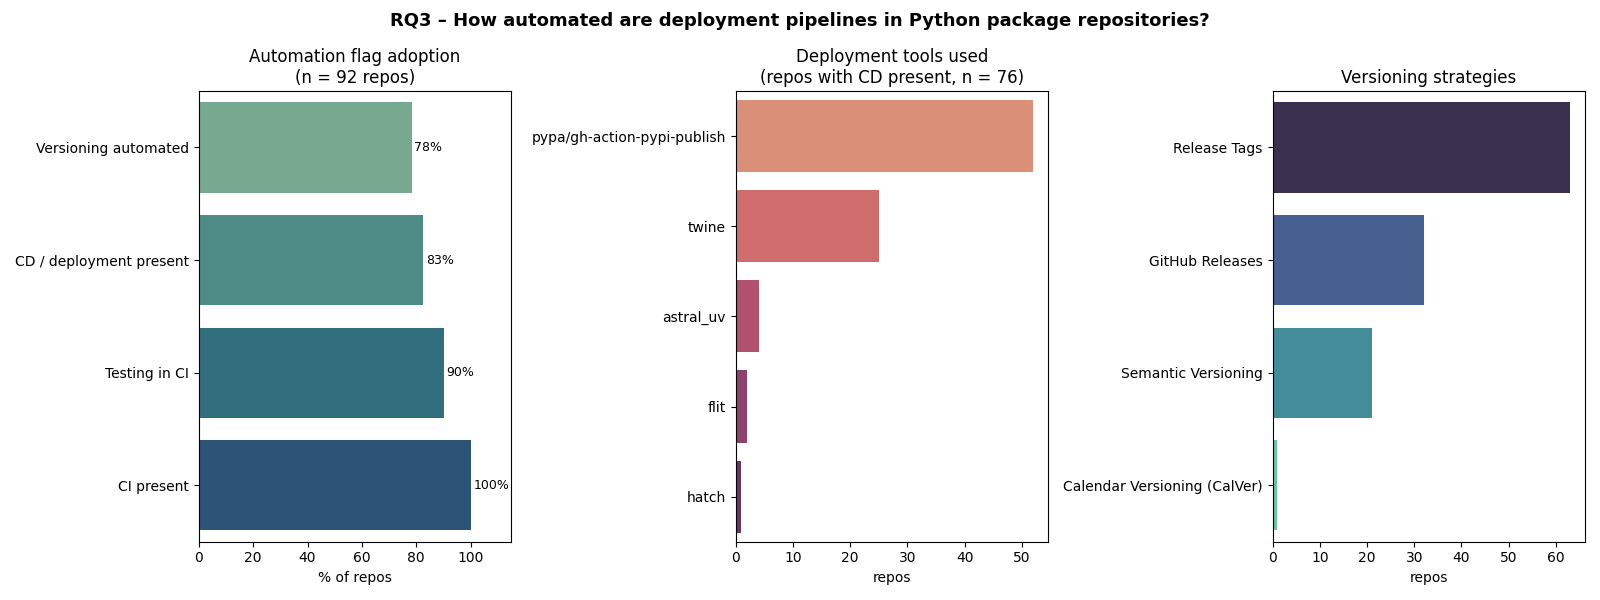
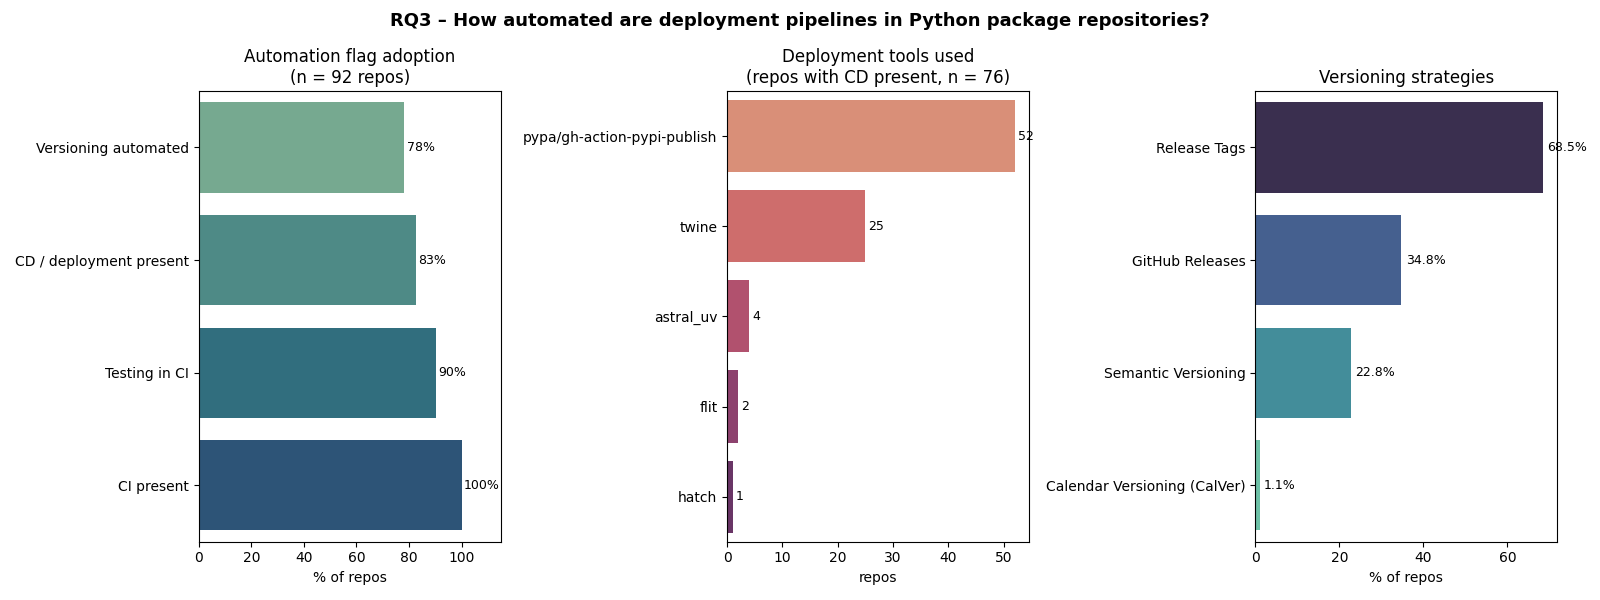
fix: rq3 figure

diff --git a/charts.py b/charts.py
@@ -223,34 +223,88 @@ def plot_rq3(ev, rs):
         "CD / deployment present":  yes_pct(rs["cd_present"]),
         "Versioning automated":     yes_pct(rs["versioning_automated"]),
     }
+
     flag_df = pd.DataFrame(flags.items(), columns=["flag", "pct"]).sort_values("pct")
-    bars = sns.barplot(data=flag_df, x="pct", y="flag", ax=axes[0], palette="crest")
+
+    bars = sns.barplot(
+        data=flag_df,
+        x="pct",
+        y="flag",
+        ax=axes[0],
+        palette="crest"
+    )
+
     axes[0].set_title(f"Automation flag adoption\n(n = {len(rs)} repos)")
     axes[0].set_xlabel("% of repos")
     axes[0].set_ylabel("")
     axes[0].set_xlim(0, 115)
+
     for bar, val in zip(bars.patches, flag_df["pct"]):
-        axes[0].text(val + 1, bar.get_y() + bar.get_height() / 2,
-                     f"{val:.0f}%", va="center", fontsize=9)
+        axes[0].text(
+            val + 1,
+            bar.get_y() + bar.get_height() / 2,
+            f"{val:.0f}%",
+            va="center",
+            fontsize=9
+        )
 
     # middle: deployment tools (CD repos only)
     cd_repos = rs[rs["cd_present"].str.strip().str.lower() == "yes"]
+
     dep_df = top_counts(split_col(cd_repos["deployment_tools"]), n=10)
-    sns.barplot(data=dep_df, x="count", y="label", ax=axes[1], palette="flare")
-    axes[1].set_title(f"Deployment tools used\n(repos with CD present, n = {len(cd_repos)})")
+
+    bars = sns.barplot(
+        data=dep_df,
+        x="count",
+        y="label",
+        ax=axes[1],
+        palette="flare"
+    )
+
+    axes[1].set_title(
+        f"Deployment tools used\n(repos with CD present, n = {len(cd_repos)})"
+    )
     axes[1].set_xlabel("repos")
     axes[1].set_ylabel("")
 
+    for bar, val in zip(bars.patches, dep_df["count"]):
+        axes[1].text(
+            val + 0.5,
+            bar.get_y() + bar.get_height() / 2,
+            f"{val}",
+            va="center",
+            fontsize=9
+        )
+
     # right: versioning strategies
     vs_df = top_counts(split_col(rs["versioning_strategy"]), n=8)
-    sns.barplot(data=vs_df, x="count", y="label", ax=axes[2], palette="mako")
+    vs_df["pct"] = vs_df["count"] / len(rs) * 100
+
+    bars = sns.barplot(
+        data=vs_df,
+        x="pct",
+        y="label",
+        ax=axes[2],
+        palette="mako"
+    )
+
     axes[2].set_title("Versioning strategies")
-    axes[2].set_xlabel("repos")
+    axes[2].set_xlabel("% of repos")
     axes[2].set_ylabel("")
+
+    for bar, val in zip(bars.patches, vs_df["pct"]):
+        axes[2].text(
+            val + 1,
+            bar.get_y() + bar.get_height() / 2,
+            f"{val:.1f}%",
+            va="center",
+            fontsize=9
+        )
 
     plt.tight_layout()
     plt.savefig("outputs/rq3_automation_levels.png", dpi=150, bbox_inches="tight")
     plt.show()
+
     print("Saved outputs/rq3_automation_levels.png")
 
 
@@ -371,7 +425,7 @@ if __name__ == "__main__":
     print(f"Loaded {len(rs):,} repo-summary rows")
     print()
 
-    plot_rq1(ev, rs)
-    plot_rq2(ev, rs)
+    # plot_rq1(ev, rs)
+    # plot_rq2(ev, rs)
     plot_rq3(ev, rs)
-    plot_rq4(ev, rs)
+    # plot_rq4(ev, rs)